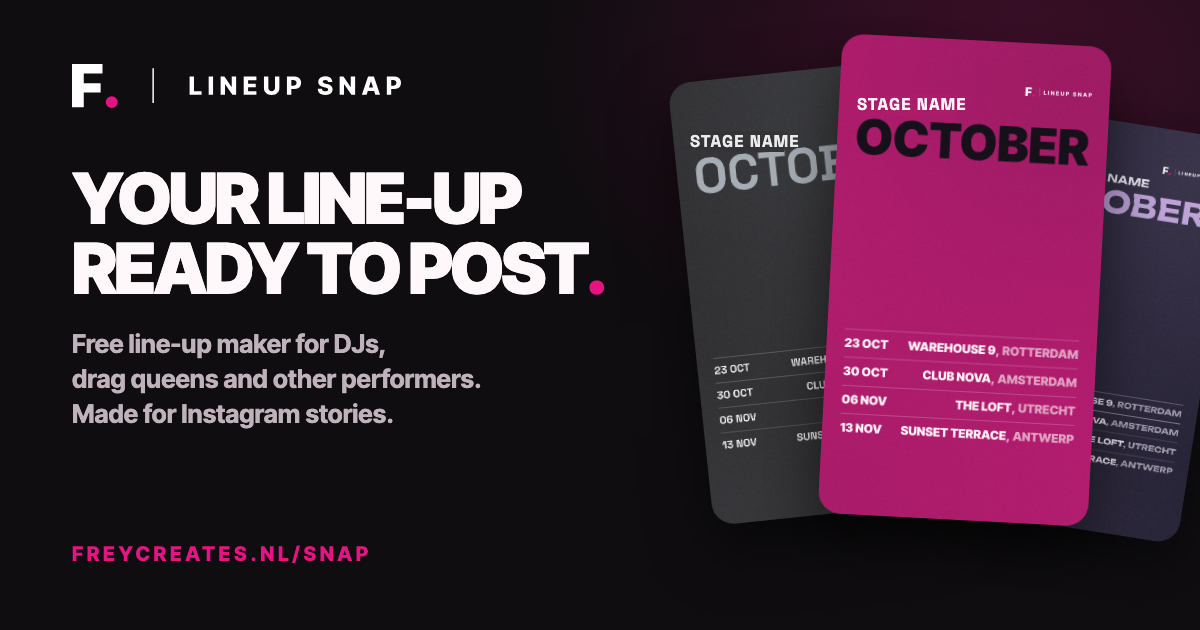
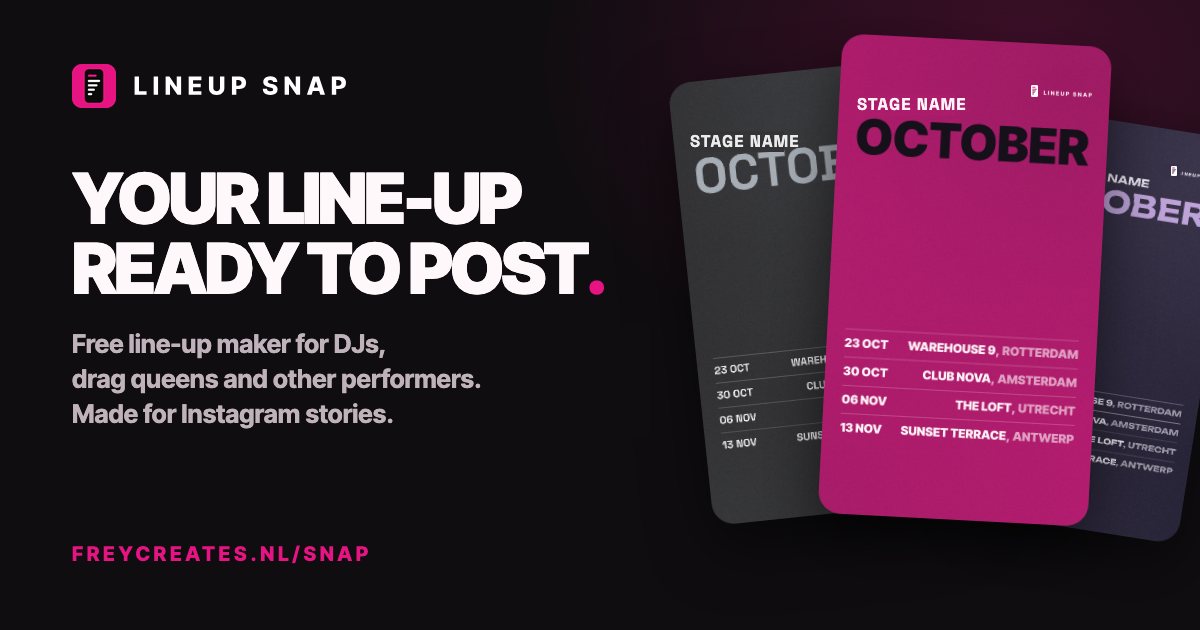
added files for LineUp Snap

Changed region(s): [[0.0617, 0.0905, 0.3392, 0.181], [0.8325, 0.1206, 0.8633, 0.1508]]

diff --git a/snap/index.html b/snap/index.html
@@ -7,9 +7,9 @@
 <meta name="description" content="Free line-up maker for DJ's, performers, event calendars. Customizable with your own image and logo. Ready for your Story.">
 <meta name="theme-color" content="#0f0d10">
 <link rel="canonical" href="https://freycreates.nl/snap/">
-<link rel="icon" type="image/png" sizes="48x48" href="/assets/frey-icon-48.png">
-<link rel="icon" type="image/png" sizes="512x512" href="/assets/frey-icon.png">
-<link rel="apple-touch-icon" href="/assets/frey-icon-180.png">
+<link rel="icon" type="image/png" sizes="48x48" href="/assets/lineup-snap-icon-48.png">
+<link rel="icon" type="image/png" sizes="512x512" href="/assets/lineup-snap-icon-512.png">
+<link rel="apple-touch-icon" href="/assets/lineup-snap-icon-180.png">
 <meta property="og:type" content="website">
 <meta property="og:url" content="https://freycreates.nl/snap/">
 <meta property="og:site_name" content="FREY.">
@@ -18,12 +18,12 @@
 <meta property="og:image" content="https://freycreates.nl/assets/snap-share.png">
 <meta property="og:image:width" content="1200">
 <meta property="og:image:height" content="630">
-<meta property="og:image:alt" content="Lineup Snap by FREY.: three Instagram story line-ups in different themes">
+<meta property="og:image:alt" content="Lineup Snap: three Instagram story line-ups in different themes">
 <meta name="twitter:card" content="summary_large_image">
 <meta name="twitter:title" content="Lineup Snap | Line-up maker for DJs and performers">
 <meta name="twitter:description" content="Free line-up maker for DJ's, performers, event calendars. Customizable with your own image and logo. Ready for your Story.">
 <meta name="twitter:image" content="https://freycreates.nl/assets/snap-share.png">
-<meta name="twitter:image:alt" content="Lineup Snap by FREY.: three Instagram story line-ups in different themes">
+<meta name="twitter:image:alt" content="Lineup Snap: three Instagram story line-ups in different themes">
 <link rel="preconnect" href="https://fonts.googleapis.com">
 <link rel="preconnect" href="https://fonts.gstatic.com" crossorigin>
 <link href="https://fonts.googleapis.com/css2?family=Barlow+Condensed:wght@800&family=Inter+Tight:wght@500;600;700;800;900&family=Space+Grotesk:wght@700&family=Space+Mono:wght@700&family=Unbounded:wght@700&display=swap" rel="stylesheet">
@@ -42,10 +42,9 @@ a{color:inherit}
 
 /* top bar */
 .top{display:flex;align-items:center;gap:14px;max-width:1160px;margin:0 auto;padding:20px 24px}
-.brand{font-weight:900;font-size:26px;letter-spacing:-.04em;text-decoration:none;line-height:1}
-.brand i{color:var(--pink);font-style:normal}
-.sep{width:1px;height:20px;background:var(--line)}
-.product{font-weight:800;font-size:13px;letter-spacing:.22em;text-transform:uppercase}
+.brand{display:flex;align-items:center;gap:12px;text-decoration:none;line-height:1}
+.brand svg{width:38px;height:38px;flex:none;border-radius:22.37%}
+.product{font-weight:800;font-size:15px;letter-spacing:.22em;text-transform:uppercase}
 .meta{margin-left:auto;font-size:11px;letter-spacing:.16em;color:var(--muted);text-transform:uppercase;font-weight:600}
 
 /* hero */
@@ -206,9 +205,10 @@ footer i{color:var(--pink);font-style:normal}
 <body>
 
 <header class="top">
-  <a class="brand" href="https://freycreates.nl" aria-label="FREY. home">FREY<i>.</i></a>
-  <span class="sep"></span>
-  <span class="product">LINEUP SNAP</span>
+  <a class="brand" href="/snap/" aria-label="Lineup Snap">
+    <svg viewBox="0 0 100 100" aria-hidden="true"><rect width="100" height="100" fill="#e61482"/><rect x="29" y="12" width="42" height="76" rx="9" fill="#0a0a0a"/><rect x="36" y="24" width="20" height="5" rx="2.5" fill="#e61482"/><g fill="#fff"><rect x="36" y="36" width="28" height="5" rx="2.5"/><rect x="36" y="46" width="22" height="5" rx="2.5"/><rect x="36" y="56" width="16" height="5" rx="2.5"/><rect x="36" y="66" width="10" height="5" rx="2.5"/></g></svg>
+    <span class="product">Lineup Snap</span>
+  </a>
   <span class="meta">Private · Runs in your browser · iOS app soon</span>
 </header>
 
@@ -254,7 +254,7 @@ footer i{color:var(--pink);font-style:normal}
             </div>
           </div>
           <div>
-            <span class="sublbl">Corner badge (F. LINEUP SNAP, top right)</span>
+            <span class="sublbl">Corner badge (Lineup Snap logo, top right)</span>
             <div class="seg" id="badge"><button data-v="true">On</button><button data-v="false">Off</button></div>
           </div>
           <div>
@@ -666,19 +666,21 @@ function photoRect(F){
 
 const BADGE_FONT=()=>({family:'Inter Tight',weight:900,style:'normal',fb:'Arial,sans-serif'});
 function drawBadge(x,right,base,k,C){
+  // Lineup Snap mark (a 9:16 story with a line-up on it) + spaced wordmark. Mark follows the text colour, headliner bar stays pink.
   const th=BADGE_FONT(),fs=48*k,ts=22*k,sp=5.5*k;
   x.save();x.textAlign='left';x.textBaseline='alphabetic';
-  x.font=fontStr(th,fs);const fw=x.measureText('F').width,dw=x.measureText('.').width;
   x.font=fontStr(th,ts,800);const word='LINEUP SNAP';
   let tw=0;for(const ch of word)tw+=x.measureText(ch).width+sp;tw-=sp;
-  const gap=14*k,total=fw+dw+gap*2+2*k+tw;let px=right-total;
-  x.font=fontStr(th,fs);x.fillStyle=C.text;x.fillText('F',px,base);px+=fw;
-  x.fillStyle='#e61482';x.fillText('.',px,base);px+=dw+gap;
-  x.fillStyle=rgba(C.text,.35);x.fillRect(px,base-fs*.72,2*k,fs*.72);px+=2*k+gap;
-  x.font=fontStr(th,ts,800);x.fillStyle=C.text;
-  const ty=base-fs*.72/2+ts*.36;
+  const mh=40*k,mw=mh*42/76,u=mh/76,gap=13*k,cy=base-fs*.36;
+  let px=right-(mw+gap+tw);const my=cy-mh/2;
+  const rr=(X,Y,W,Hh,R)=>{x.beginPath();x.roundRect?x.roundRect(X,Y,W,Hh,R):x.rect(X,Y,W,Hh);x.fill()};
+  x.fillStyle=C.text;rr(px,my,mw,mh,9*u);
+  x.fillStyle='#e61482';rr(px+7*u,my+12*u,20*u,5*u,2.5*u);
+  x.fillStyle=C.bg;[[24,28],[34,22],[44,16],[54,10]].forEach(([y,w])=>rr(px+7*u,my+y*u,w*u,5*u,2.5*u));
+  px+=mw+gap;
+  x.fillStyle=C.text;const ty=cy+ts*.36;
   for(const ch of word){x.fillText(ch,px,ty);px+=x.measureText(ch).width+sp}
-  x.restore();ensureFont(th,'F.LINEUP SNAP');
+  x.restore();ensureFont(th,'LINEUP SNAP');
 }
 function draw(){
   const F=FORMATS[S.format],th=curTheme(),C=colors();
